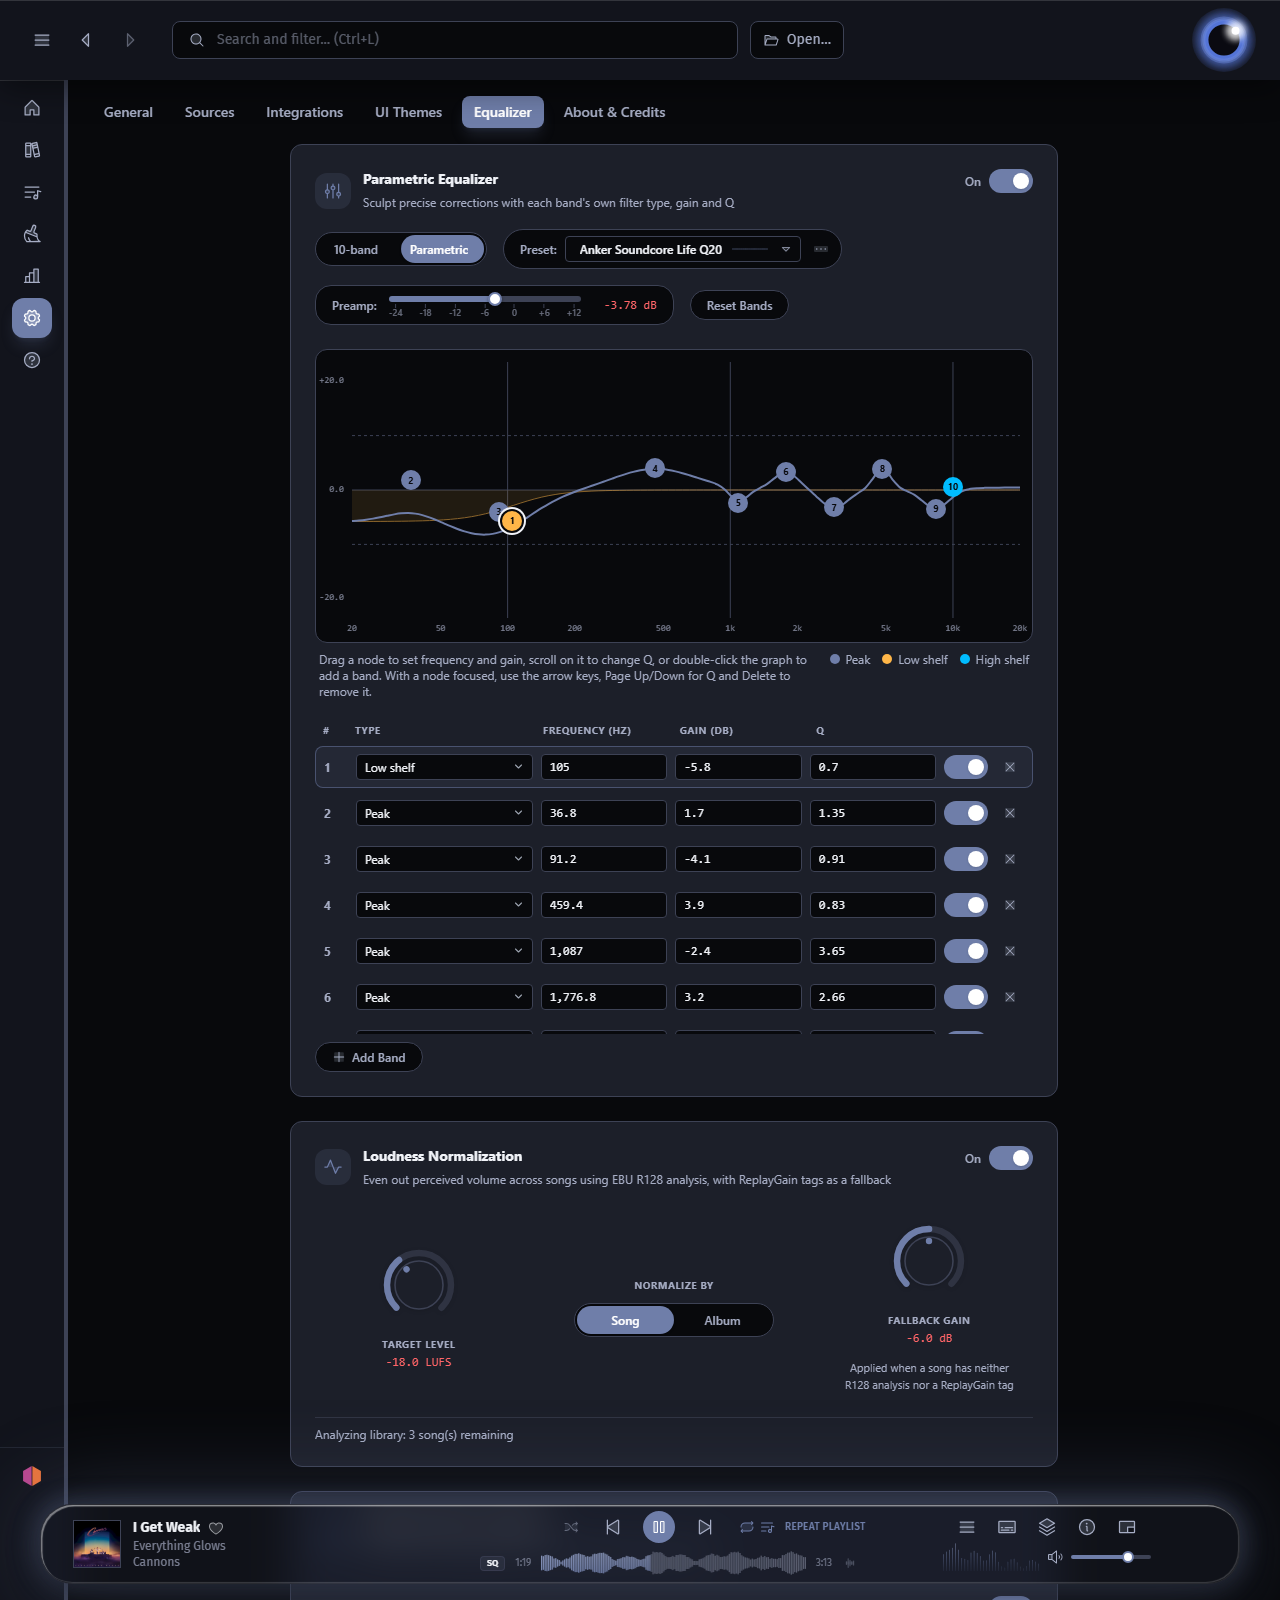
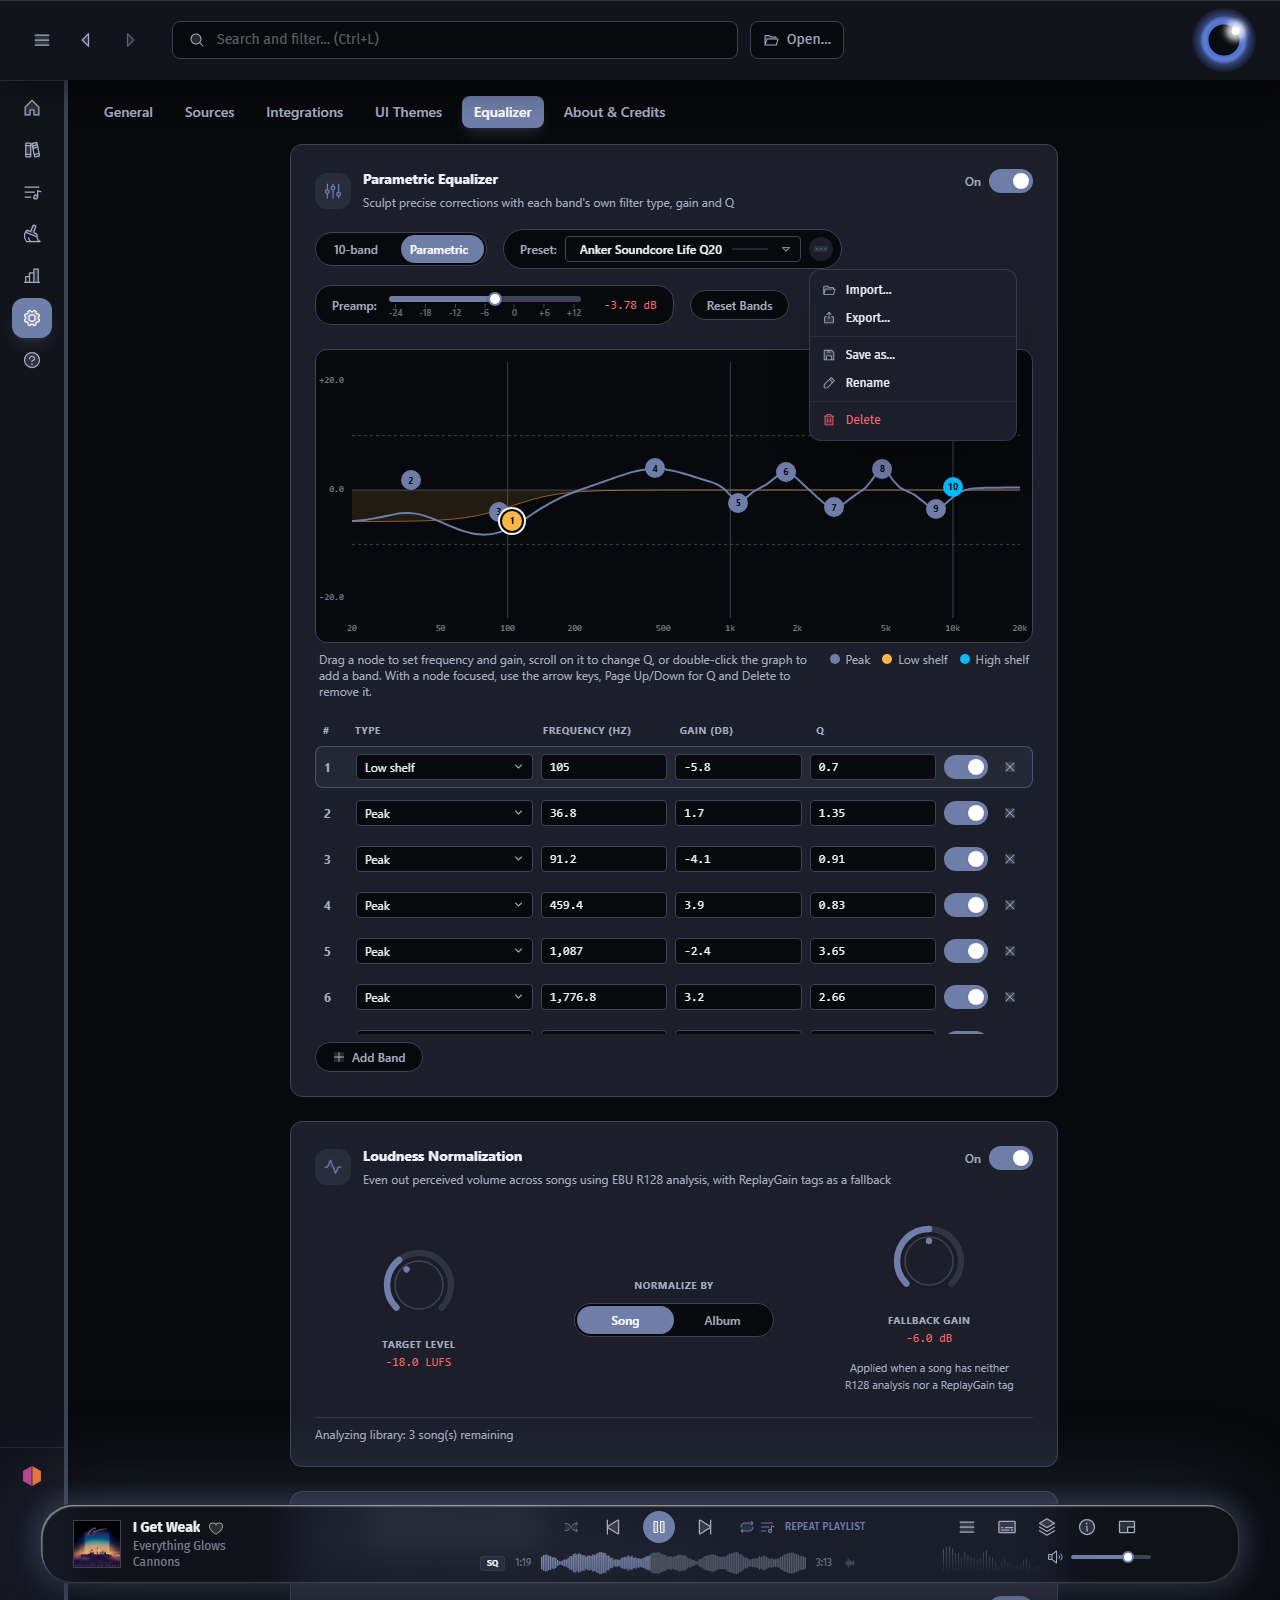
docs(eq): show the preset actions menu open in the parametric screenshot (#1336)

Changed region(s): [[0.625, 0.1562, 0.8125, 0.2812]]

diff --git a/scripts/take-screenshots.ts b/scripts/take-screenshots.ts
@@ -413,6 +413,10 @@ async function main() {
       await page.waitForTimeout(400);
       await page.getByRole("button", { name: t(language, "equalizer.modeParametric"), exact: true }).click();
       await page.waitForTimeout(400);
+      // Open the preset actions menu so the guide shows where Import, Export
+      // and the user-preset actions live — it's easy to miss when closed.
+      await page.getByRole("button", { name: t(language, "equalizer.presetActions"), exact: true }).click();
+      await page.getByRole("menu").waitFor();
     },
     "click-settings-sources": async (page, _featured, language) => {
       await page.getByRole("tab", { name: t(language, "settings.tabSources"), exact: true }).click();
